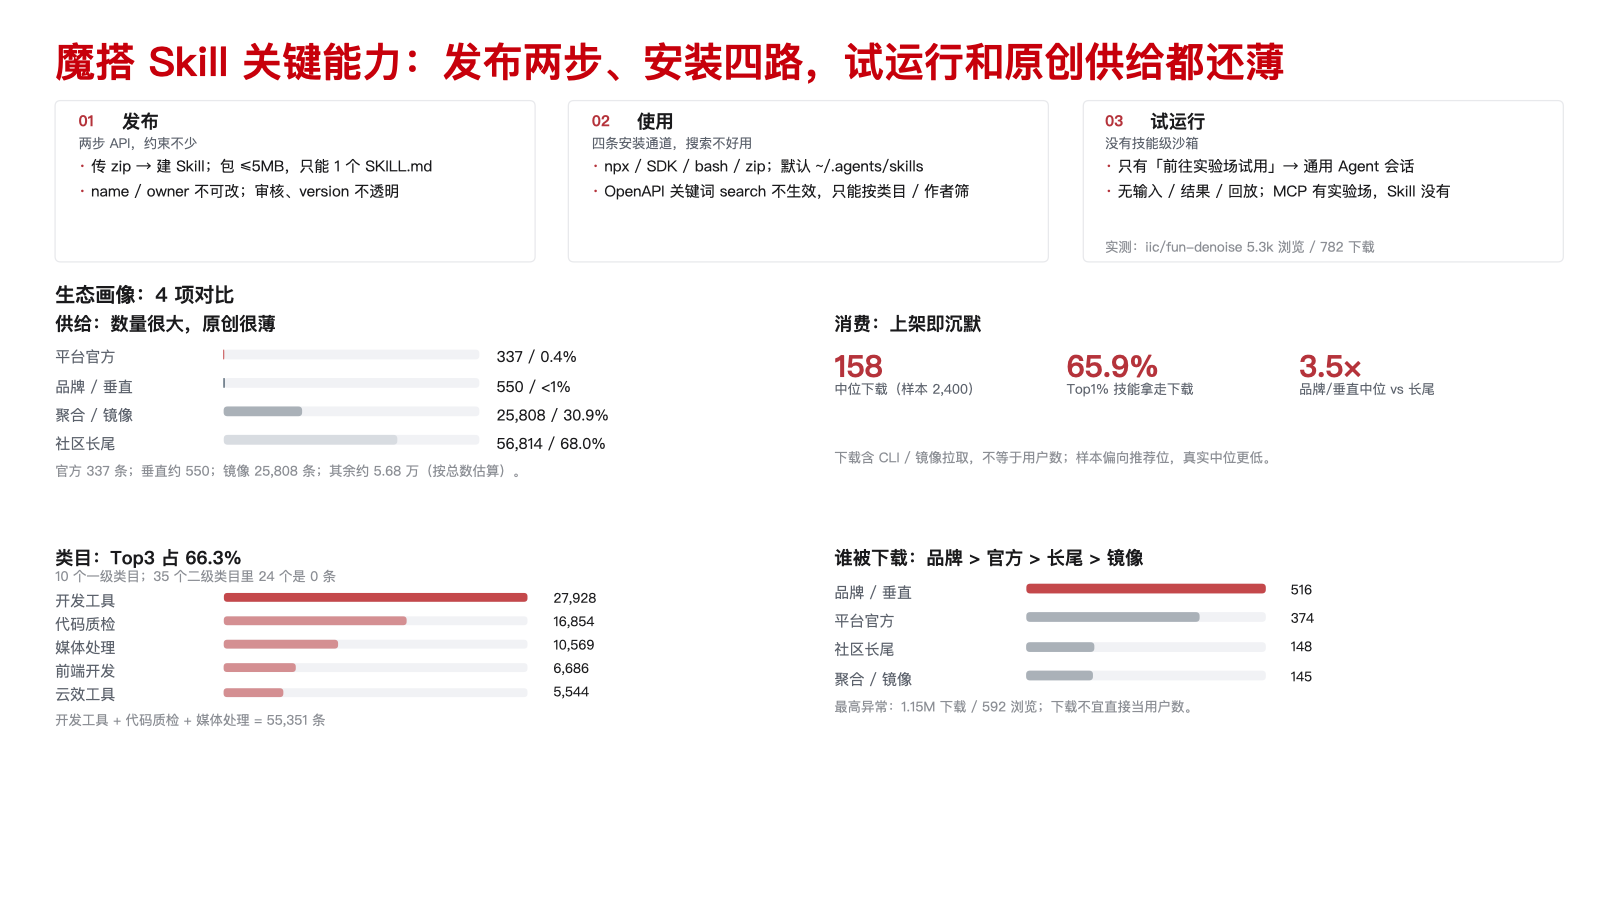
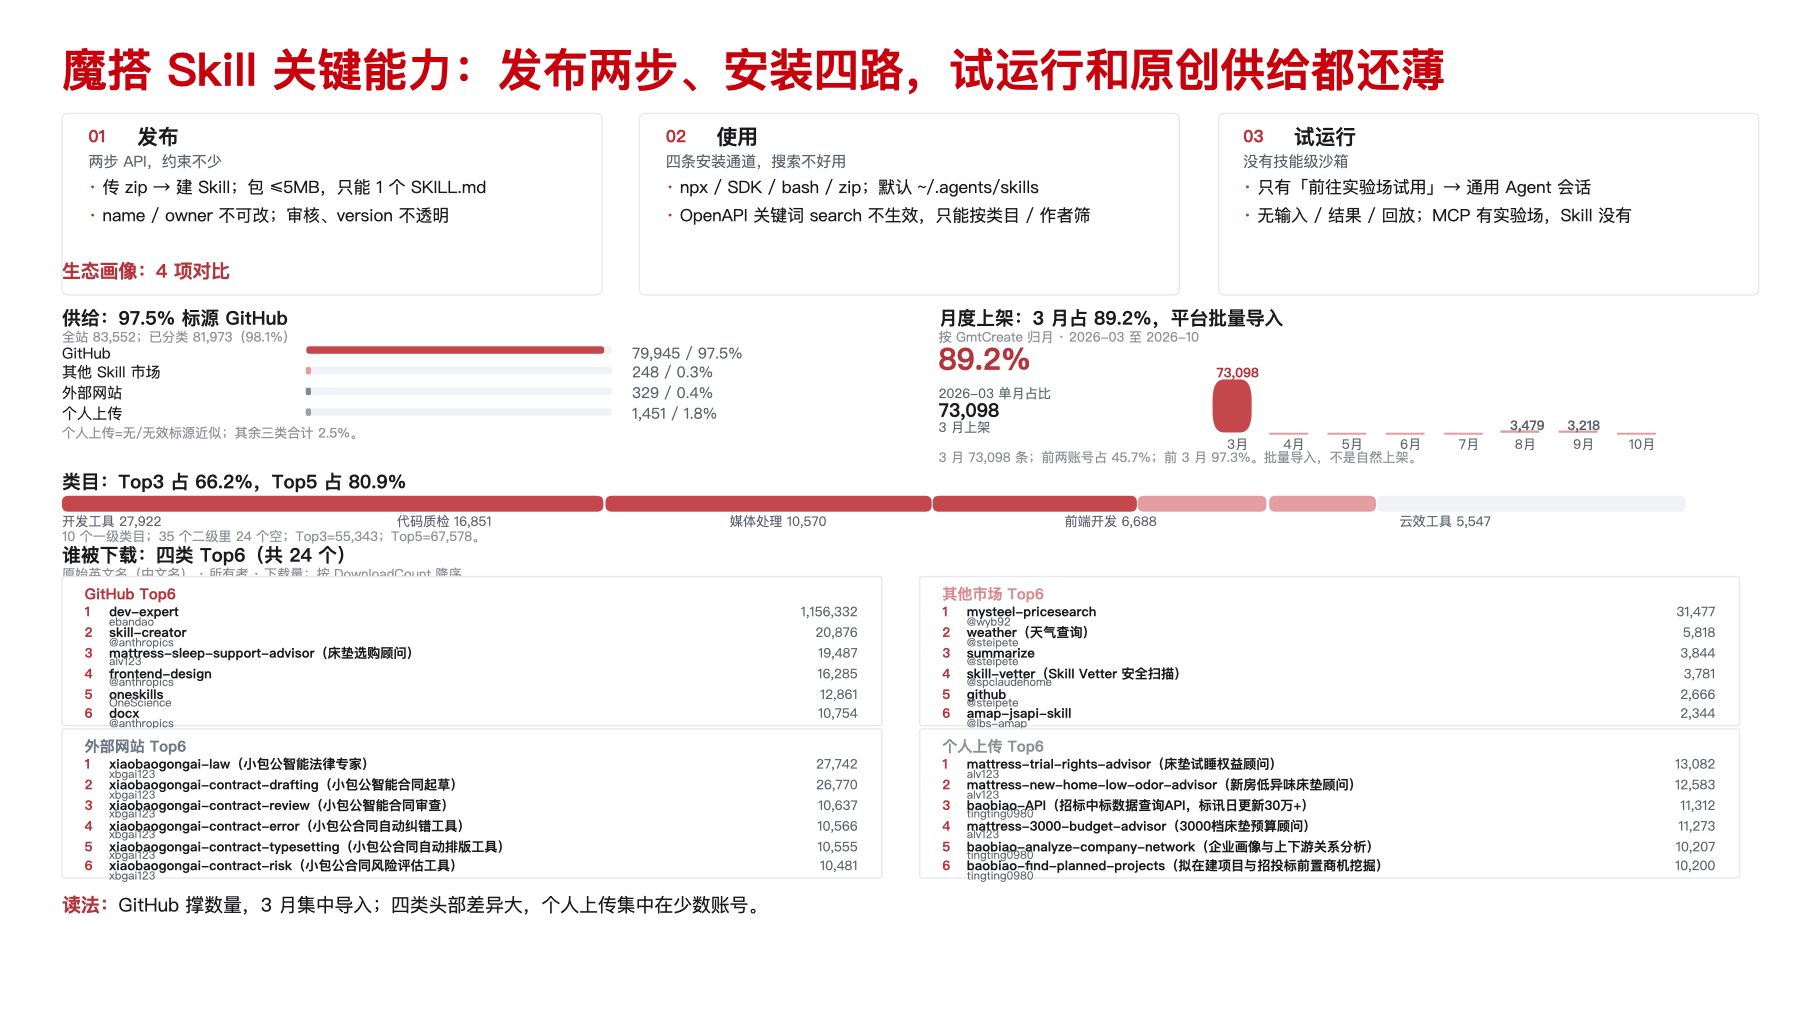
Expand ModelScope download list to top six per source

diff --git a/skill-final-v1-manifest.md b/skill-final-v1-manifest.md
@@ -15,7 +15,7 @@
 - **第一页按 `skill-lifecycle-summary.md` 的“关键动作”重新核对**：每段只把“动作”放入动作层，检查点与产物另列；生产段把“定任务 / 写方法 / 配资源并验证”拆开，边界放入“定任务”和检查点，样例与评测记录放入产物，不再把“留样例和边界”当作与前两步并列的第三个动作。动作层补入 `$skill-creator`、Git/ZIP、`npx skills add`、`/pdf-processing` 等可执行动作；`$skill-creator` 作为一条起稿路径，不写成唯一方式。
 - **最后两页按统一版式重排**：第 18 页先总结阿里/腾讯两条商业化路径（对比表 + 三点判断），第 19 页给出智果园的四条启示、首期路径与验收口径。
 - **SkillHub 从 3 页合并为 2 页**：第 3 页“关键能力”（供给与发布 / 分发安装 / 云端试跑 / TRACE）；第 4 页“生态画像”：供给/分类/付费看全站，消费与“谁被下载”中位看 Top10000；个人/企业为按来源标签折算，Top10000 不等于全站。
-- **魔搭合并为一页**：上半部分是“关键能力洞察”（发布 / 使用 / 试运行），下半部分是“生态画像”的 4 项对比：谁在供给 / 类目分布 / 消费集中度 / 谁被下载；30.9% 只在供给卡里出现，不再单独成块；删掉资产定位与结构、结论。
+- **魔搭合并为一页**：上半部分是“关键能力洞察”（发布 / 使用 / 试运行），下半部分是“生态画像”的 4 项对比：来源结构（GitHub / 其他市场 / 外部网站 / 个人上传）/ 月度上架（集中导入）/ 类目分布 / 四类来源 Top6（24 个，英文名/中文名/所有者/下载量）；已按 2026-10-24 全量 source_url 统计更新。
 - **标题已回退**：恢复上一版标题；第一页的动作 / 检查 / 产物内容保留。
 - 例外：KPI 数字保留展示字号；6.5–9.5 pt 的图注、单位、表注保留原字号，避免密集卡片溢出。若要求所有文字严格 10/12，需要重排或拆页。
 
